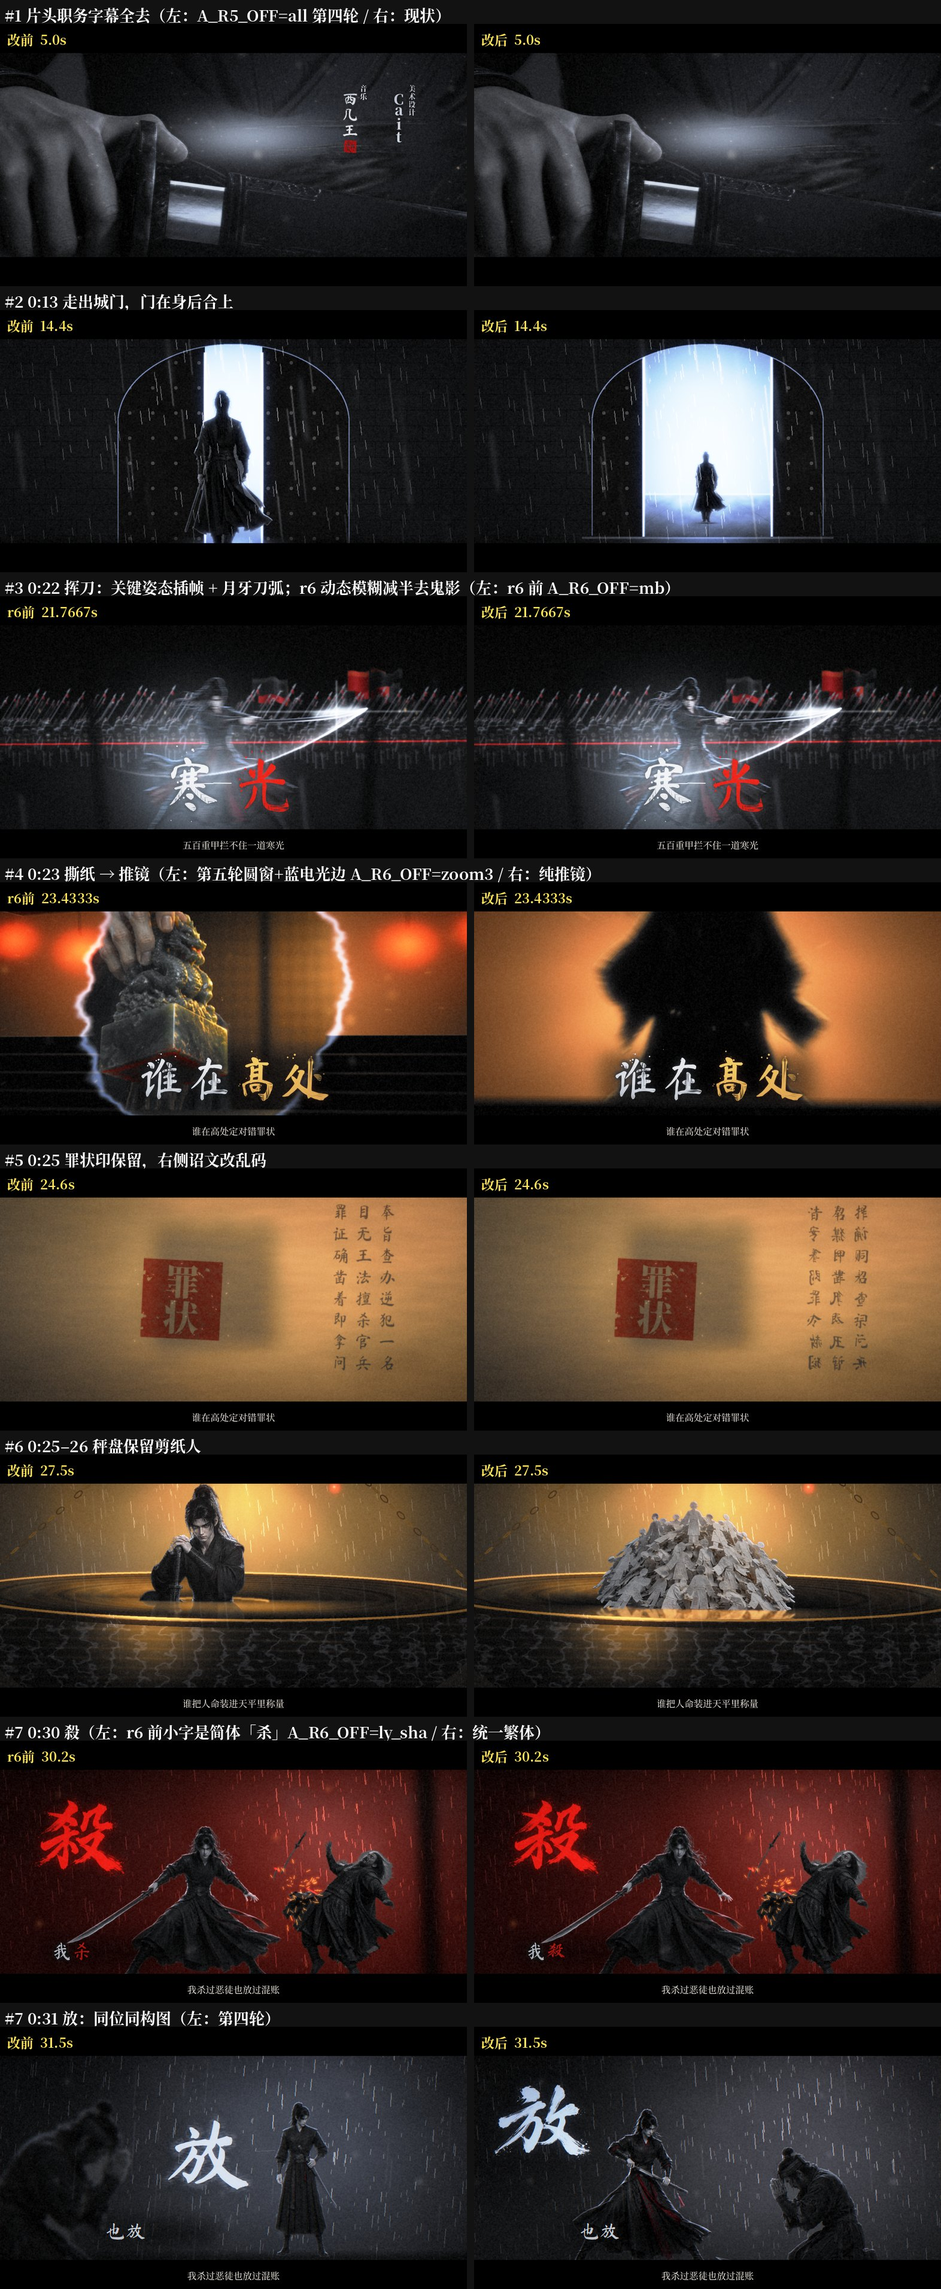
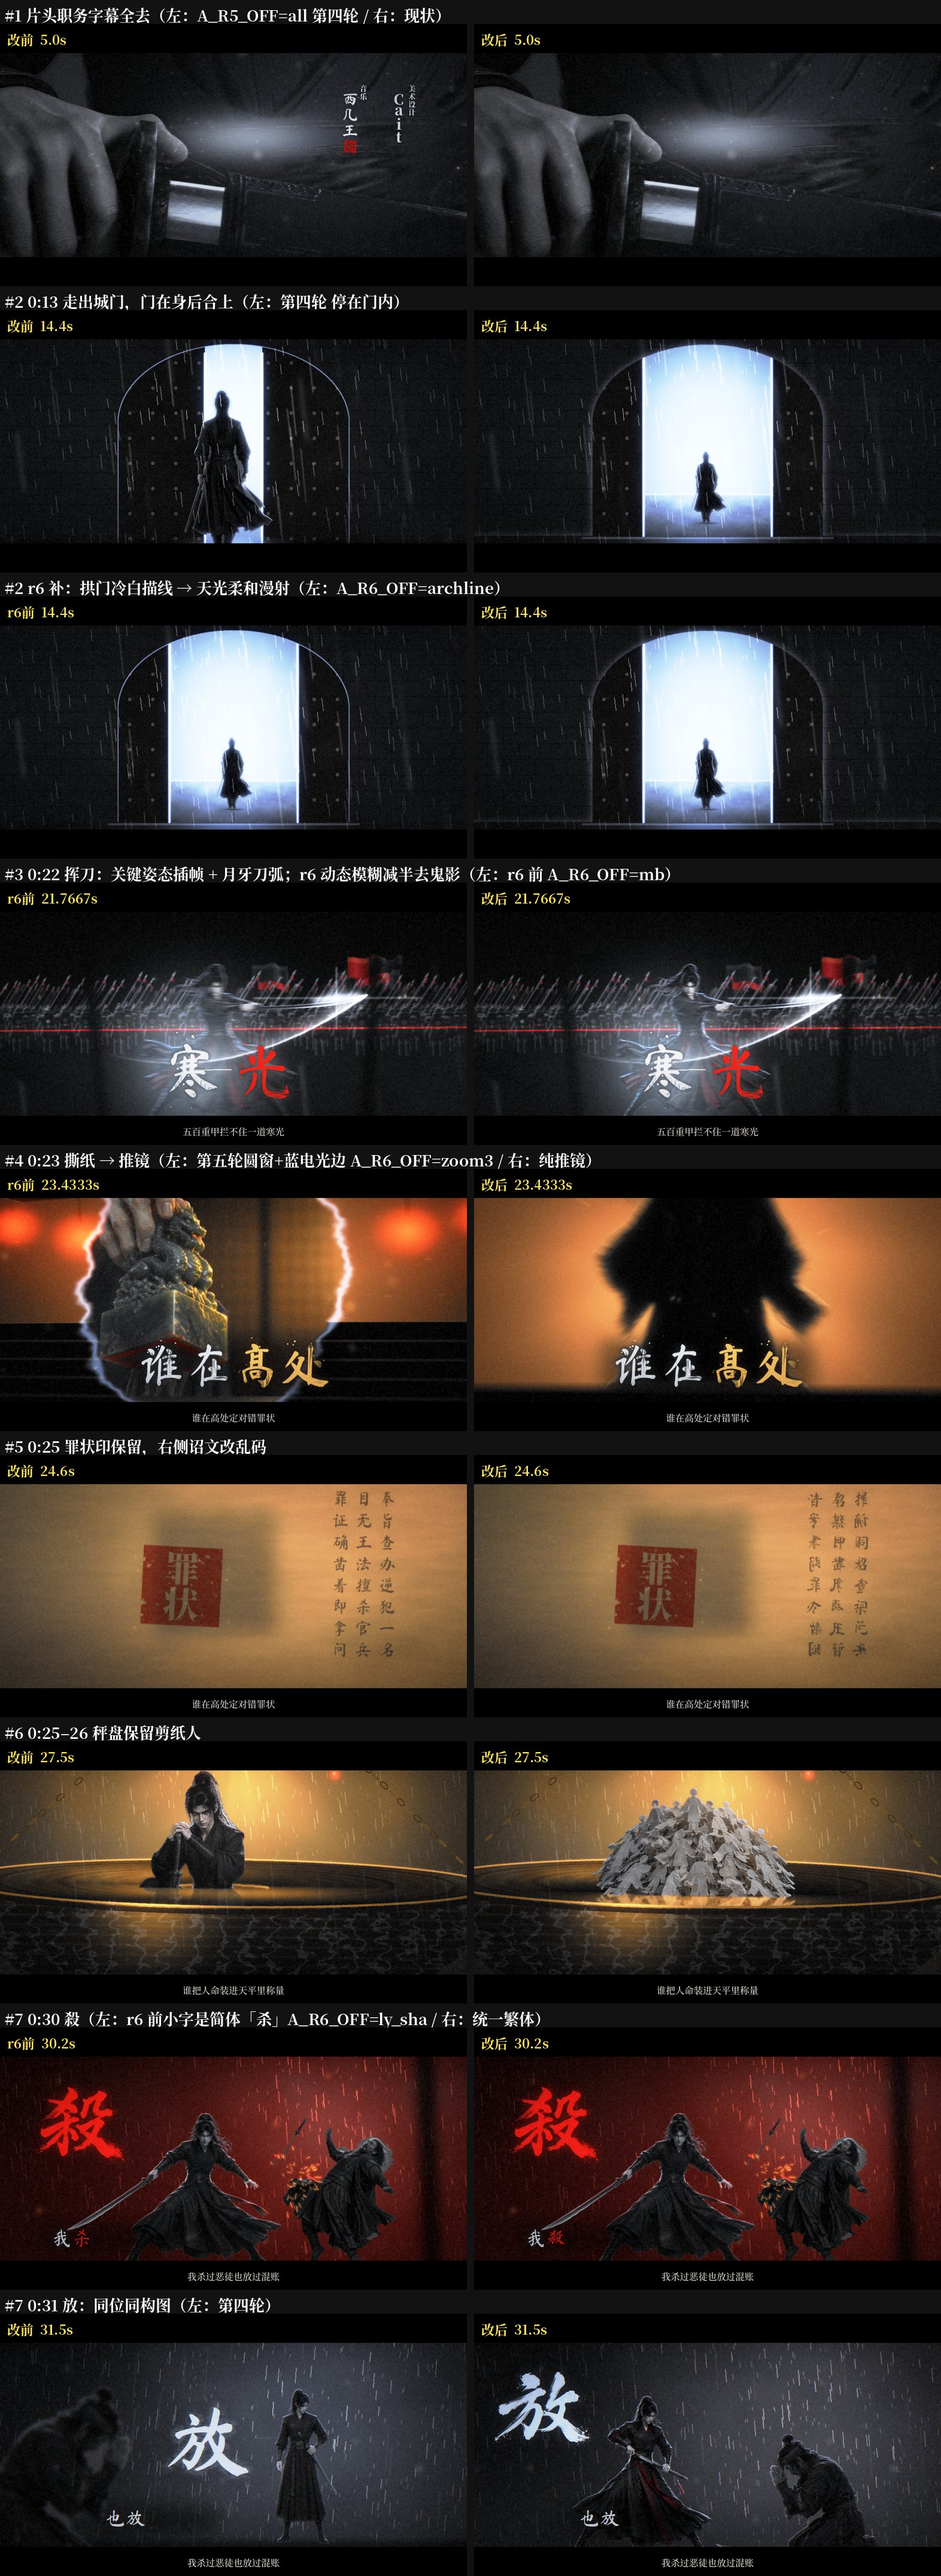
[A组 r6] 交付单 crew/round6/A_r6.md（#1–#12 + #55 逐条、自评、待问）+ 对比图 out/round6/A_r6_compare_{01_07,08_12,03_strip,04_strip,07_strip}.jpg

diff --git a/crew/round6/A_r6.md b/crew/round6/A_r6.md
@@ -1,0 +1,46 @@
+# 第六轮 A 组交付单（0:00–0:44，`units/sec_a_intro_verse1.py` + `units/a_r5.py`）
+
+接手说明：上一任 A 组本轮已提交 #8/#9（48dc877）、#10（fde74be）、#11（7375afd）、#12（778b4a8）、#55（ecb425a），没写交付报告也没出对比图。
+本棒（第六轮 A 组续任）把 #1–#12 每条都渲帧核验了一遍（`tools/cpu_slot.sh tools/rf_sb.sh` 串行），自评低于 8 的继续改，再出对比图。
+本棒**没有新生图**（R6_A 已用 4 张：cal_wodezhuzhang / rise_end_a / rise_end_b / rise_mid，本轮剩 8 张未动）。
+
+## 回滚开关
+- 第五轮各条：`A_R5_OFF=all` 或 `A_R5_OFF=walkout,zoom,…`（`units/a_r5.py` 的 `ON`）
+- 本棒新增：`A_R6_OFF=mb,zoom3,ly_sha,stele3d,archline`（逗号分隔，用来渲「r6 前」对比图）
+- #55 横排歌词：`R5_NOVLYR=1`（默认，只去竖排）/ `=all`（横竖都去）/ `=0`（全回滚）
+
+## 对比图（入库，≤1600 宽）
+- `out/round6/A_r6_compare_01_07.jpg`：#1–#7 改前/改后（改前 = `A_R5_OFF=all` 第四轮；本棒补改条目另给「r6 前」= 对应 `A_R6_OFF` 开关）
+- `out/round6/A_r6_compare_08_12.jpg`：#8–#12 改前/改后（改前 = 开关关掉的第五轮画面）
+- `out/round6/A_r6_compare_03_strip.jpg`：#3 第二刀九帧条（650–662f）+ r6 前两帧鬼影对照
+- `out/round6/A_r6_compare_04_strip.jpg`：#4 推镜转场九帧条（699–708f），上改后 / 下 r6 前
+- `out/round6/A_r6_compare_07_strip.jpg`：#7 殺 → 放 原位变换九帧条（924–948f）
+
+## 逐条
+
+| # | 用户原话 | 改了什么 | 提交 | 证据帧（秒） | 自评 |
+|---|---|---|---|---|---|
+| 1 | 片头「后期总监、出品人」等职务字幕全部去掉（结尾已有，重复） | `credits_off`：0–7.9s 署名层整层不画。片名「鬼屠 第二季」保留。本棒逐帧抽查 2.5/5.0/7.0 无残留 | 78bf93d（第五轮） | 2.5、5.0、7.0 | 9 |
+| 2 | 0:13 人物应该走出门外去，目前没走出去 | 第五轮：主角跨过门槛走上门外大道越走越远，城门在身后合上（14.28 闪电剪影、15.05 合成一线门缝）。**本棒补**：拱门一圈 5px 冷白描线读成线稿 → 改成门外天光溢到拱券石面的柔和漫射 | 78bf93d；补 4ca1622（代码被 14:21 autosync 先收走，开关 `archline`） | 13.6、14.4、15.1 | 8 |
+| 3 | 0:22 角色挥刀动作太丑，优化 | 第五轮：五张同人物关键姿态逐帧插帧（第一刀 → 收刀蓄势 → 第二刀起刀/过身/平出/送出）+ 月牙刀弧。**本棒补**：挥刀帧 20–26px 横向动态模糊把细长身体 alpha 抹薄，人物半透明透出后面军阵（鬼影）→ 模糊减到 42%（8–11px） | 5e617f1；补 8121771（开关 `mb`） | 九帧条 21.667–22.067；鬼影对照 21.767、21.8 | 8 |
+| 4 | 0:23 撕纸转场 → 拉近 zoom | 第五轮的 a_zoom2 是「圆窗 + 蓝色电光描边」，读成闪电圈（前几棒刚去掉过蓝闪电圈）。**本棒重做 a_zoom3**：纯推镜——向高处剪影加速推近（×1→×4.6，径向拖影，宫灯拉成放射光），钻进剪影暗部那一刻接玉玺特写，B 带同向推近余势落定；无窗口、无描边 | 01a3744（开关 `zoom3`） | 九帧条 23.30–23.60（切点 23.433） | 8.5 |
+| 5 | 0:25「罪状」印章保留，右边文字改乱码 | 右侧三列诏文 → 拼合假字（同位置/字号/墨色）；「罪状」朱印不动 | 78bf93d（第五轮） | 24.6 | 8.5 |
+| 6 | 0:25–0:26 天平上是剪纸人，26s 变成主角 → 保持剪纸 | V10 秤盘里仍是 V09 那堆纸人，不再换成主角 | 2bd5713（第五轮） | 25.6、26.5、27.5 | 8.5 |
+| 7 | 0:30–0:31「杀」「放」同一位置、用繁体（殺/放）、人物构图一致，文字做转变动画，凸显反差 | 第五轮：书法生图「殺」「放」同位同大（330,400），鬼屠同一脚点 (720,990) 同高 640，恶徒位换成跪地混账；31.18 起冷刀光扫过，朱红殺按距离场流成冷钢色放。**本棒补**：屏幕层小字原是「我**杀**」（简体，紧挨大「殺」很扎眼）→ 统一繁体「我殺」；楷体缺「殺」字形，用镜内同一张书法生图缩成小字 | d16f126；补 3e09551（开关 `ly_sha`） | 30.2、31.5；变换九帧条 30.80–31.60 | 8.5 |
+| 8 | 0:33 角色图不好看，重新出图 | V14 换 draw_cu_v1 生图（定妆照一致：高马尾、中分乱刘海、琥珀眼、黑衣暗红内领），右手握柄左手按鞘半出鞘；#53 后火星从鞘口沿刀身擦过熄灭（不再飞向原字位） | 48dc877 | 33.0、33.8 | 8 |
+| 9 | 0:35 主角的剑被截断；「我的主张」不像刻出来的，丑 | 上一任：carve_full_v1 生图人 + 整把刀在画内；「我的主张」用颜体书法生图做药研 V 槽真凿刻（槽壁明暗/投影/新茬/崩口/石粉/碎石屑，随刀尖左→右凿出）。**本棒补**：石碑像平贴的一块暗板 → 加右侧背光侧面 26px + 顶沿柔和受光 + 碑后投影（有厚度、不描边） | 48dc877；补 6443b0d（开关 `stele3d`） | 34.6、35.0、35.9、36.1 | 8 |
+| 10 | 0:37 玉玺太假没立体感，重新出图 | V16/V17 换 jade_seal_v2（羊脂白玉九龙钮、云纹浮雕、金镶缺角，3/4 立体），V16 受金光照亮 + 透光暖晕，V17 坠落是同一方 | fde74be | 37.3、37.7、38.0、38.8 | 8 |
+| 11 | 0:42 角色图丑、姿势不好看 | V20 三张新生图：低伏蓄势 → 平扫 1 帧 → 弓步上冲送刀，全身入画（头顶留白、脚踩地 + 接触阴影 + 蹬地扬尘），新月刀弧；LY2 末句缩 12% 上移让刀尖 | 7375afd | 41.9、42.2、42.5 | 8 |
+| 12 | 0:43「锋芒」两字不好看 | 换书法生图 cal_feng_v1 / cal_mang_v1（枯笔飞白墨点），滑入/落字/斩开节奏不变 | 778b4a8 | 42.9、43.3、43.9 | 8 |
+| 55 | 镜里横排或刻、写、印出来的歌词字保留 | 按总导演裁定恢复 A 段屏幕层横排 LY2；竖排（V09 梁下两列、V14 火星竖列）仍去。镜内五百重甲/寒光/罪状/殺放/我的主张/正/锋芒都在 | ecb425a | 17.0、30.2、37.7、42.2 | — |
+
+## 核验时顺带看到、没改的（判断为不影响或不归本组）
+- 13.45–13.6：片名化灰时，片名下的红印比文字晚退 2–4 帧，13.6 只剩一个小红印块（13.75 已退净）。属片名屏幕层动画，未动。
+- #3 第二刀 21.73–21.80：「寒光」逐字点亮的冷光晕半径 200px，会罩到人物下半身，读成一层白雾（风格化，非鬼影）。
+- #8 两耳略透粉（原生图自然肤色，经冷调分级后偏红），没做局部去饱和。
+
+## 待问用户
+1. #7 屏幕层小字已改繁体「我殺」，但**底部横排字幕**（共享 `units/subtitle.py`，非本组文件）仍是简体「我杀过恶徒也放过混账」。要不要字幕也统一成繁体「殺」？
+2. #55 恢复的 A 段屏幕层横排歌词（LY2）和底部字幕逐字重复（同一句同时出现两次）。按裁定保留了；用户如嫌重复，`R5_NOVLYR=all` 一键去掉。
+3. #4 现在的推镜是「钻进太上皇剪影的暗部 → 接玉玺」。如用户想要的是更直接的「推近到手/玉玺」（同一镜头内连续推），需要重新设计 V07/V08 衔接。
+4. #11 新姿势是全身入画、人约占画高 55%（为脚和刀弧留空间）。如用户想要更大的人物（半身以上），需要重出一张近景。
